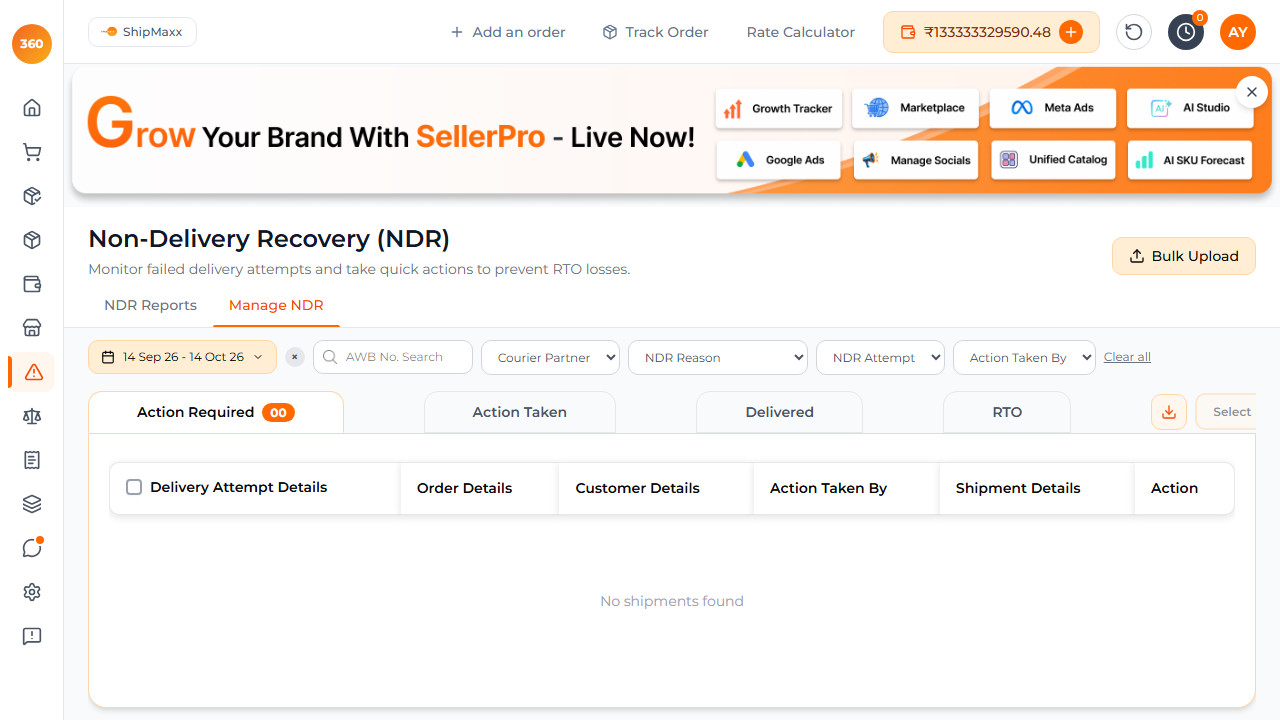
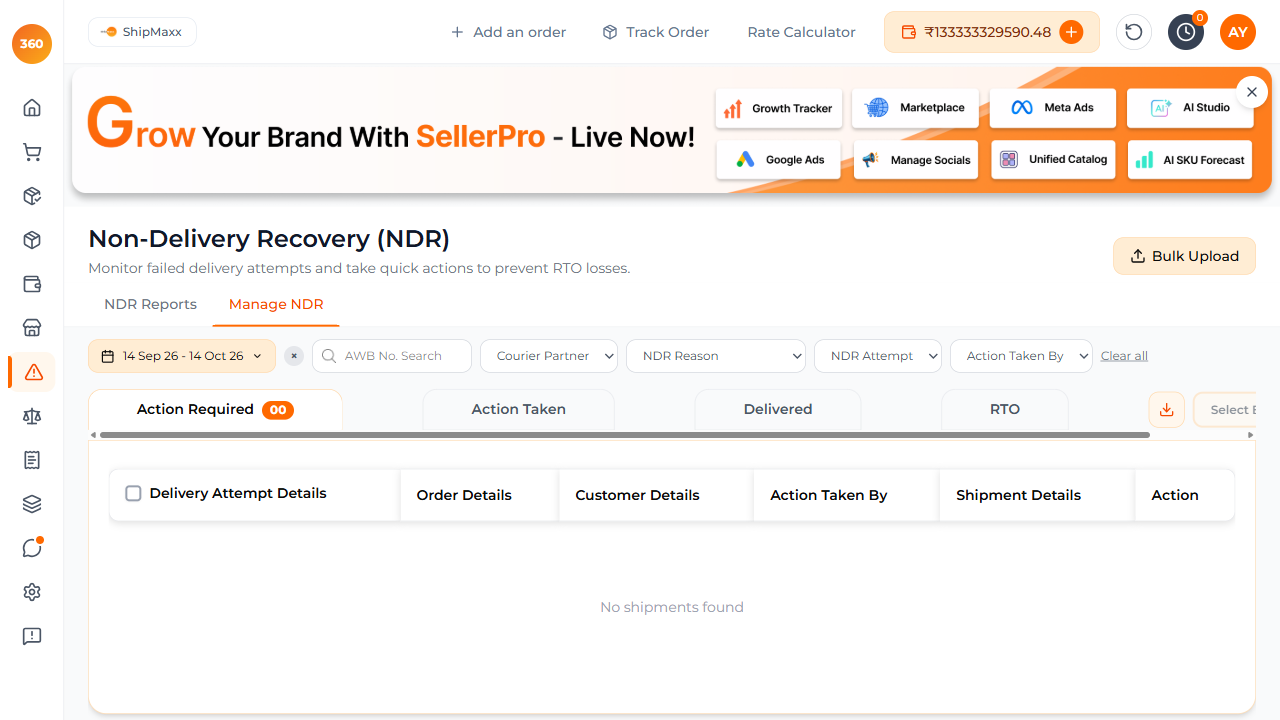
run authenticated product-to-shipment flow before remaining suites

diff --git a/pages/OrdersPage.ts b/pages/OrdersPage.ts
@@ -133,9 +133,13 @@ export class OrdersPage {
 		await expect(this.page.getByText('Please select a payment method', { exact: true })).toBeHidden({ timeout: 5000 });
 	}
 
-	async createShipment() {
-		const shipButton = this.page.getByRole('button', { name: /^Ship$/i }).first();
+	async createShipment(orderNumber: string) {
+		const orderNumberText = this.page.getByText(orderNumber, { exact: true }).first();
+		await expect(orderNumberText, `Expected the newly created order ${orderNumber} to be visible.`)
+			.toBeVisible({ timeout: 30000 });
 
+		const orderCard = orderNumberText.locator('xpath=ancestor::*[.//button[normalize-space(.)="Ship"]][1]');
+		const shipButton = orderCard.getByRole('button', { name: /^Ship$/i });
 		await shipButton.waitFor({ state: 'visible', timeout: 15000 });
 		await shipButton.click();
 	}

diff --git a/tests/shipmaxx-flow.spec.ts b/tests/shipmaxx-flow.spec.ts
@@ -3,7 +3,7 @@ import { ORDER_DATA, PRODUCT_DATA } from '../fixtures/testdata';
 import { OrdersPage, OrderDetails } from '../pages/OrdersPage';
 import { ProductDetails, ProductPage } from '../pages/ProductPage';
 
-test('login, add product, create COD order, and create shipment', async ({ page }) => {
+test('add product, create a COD order with it, and ship that order', async ({ page }) => {
   await page.goto('/', {
     waitUntil: 'domcontentloaded',
   });
@@ -26,5 +26,5 @@ test('login, add product, create COD order, and create shipment', async ({ page 
 
   await ordersPage.open();
   await ordersPage.createOrder(order);
-  await ordersPage.createShipment();
+  await ordersPage.createShipment(order.orderNumber);
 });

diff --git a/playwright.config.ts b/playwright.config.ts
@@ -56,10 +56,16 @@ export default defineConfig({
         }]
       : []),
     {
-      name: 'chromium',
-      testIgnore: /login\.spec\.ts/,
+      name: 'main-flow',
+      testMatch: /shipmaxx-flow\.spec\.ts/,
       use: { ...devices['Desktop Chrome'], storageState: authFile },
       dependencies: ['setup'],
+    },
+    {
+      name: 'chromium',
+      testIgnore: [/login\.spec\.ts/, /shipmaxx-flow\.spec\.ts/],
+      use: { ...devices['Desktop Chrome'], storageState: authFile },
+      dependencies: ['main-flow'],
     },
 /*
     {
